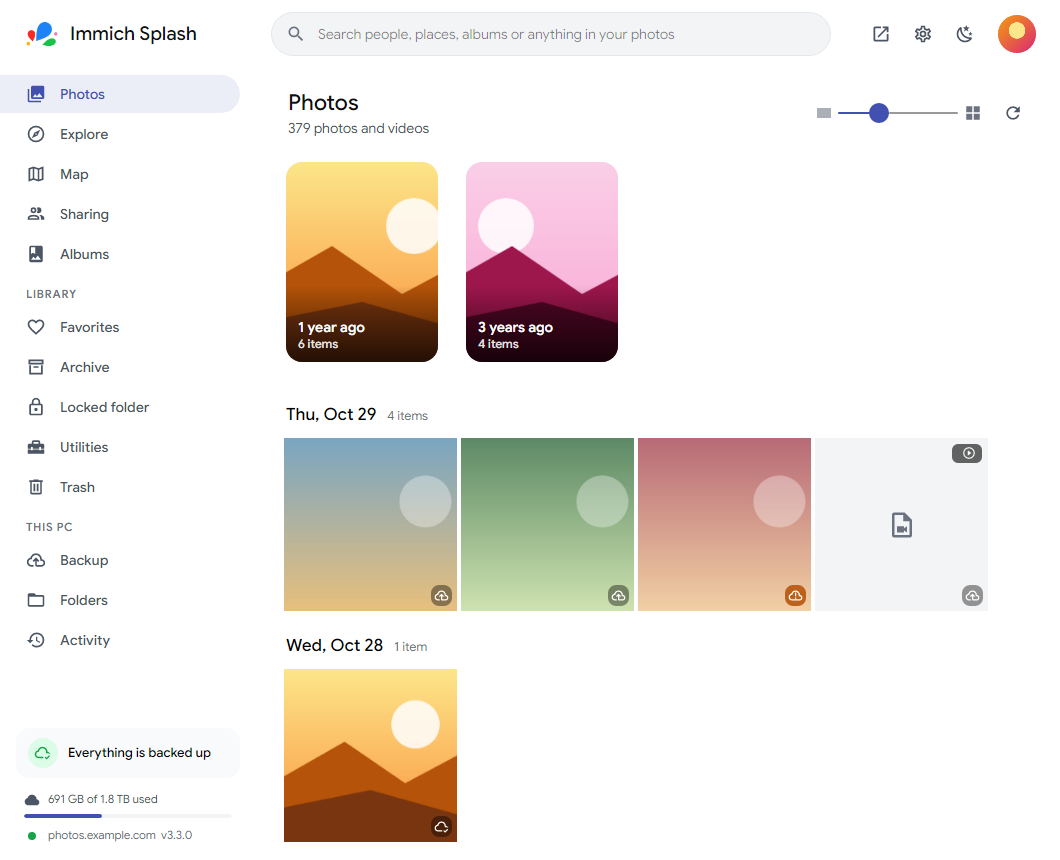
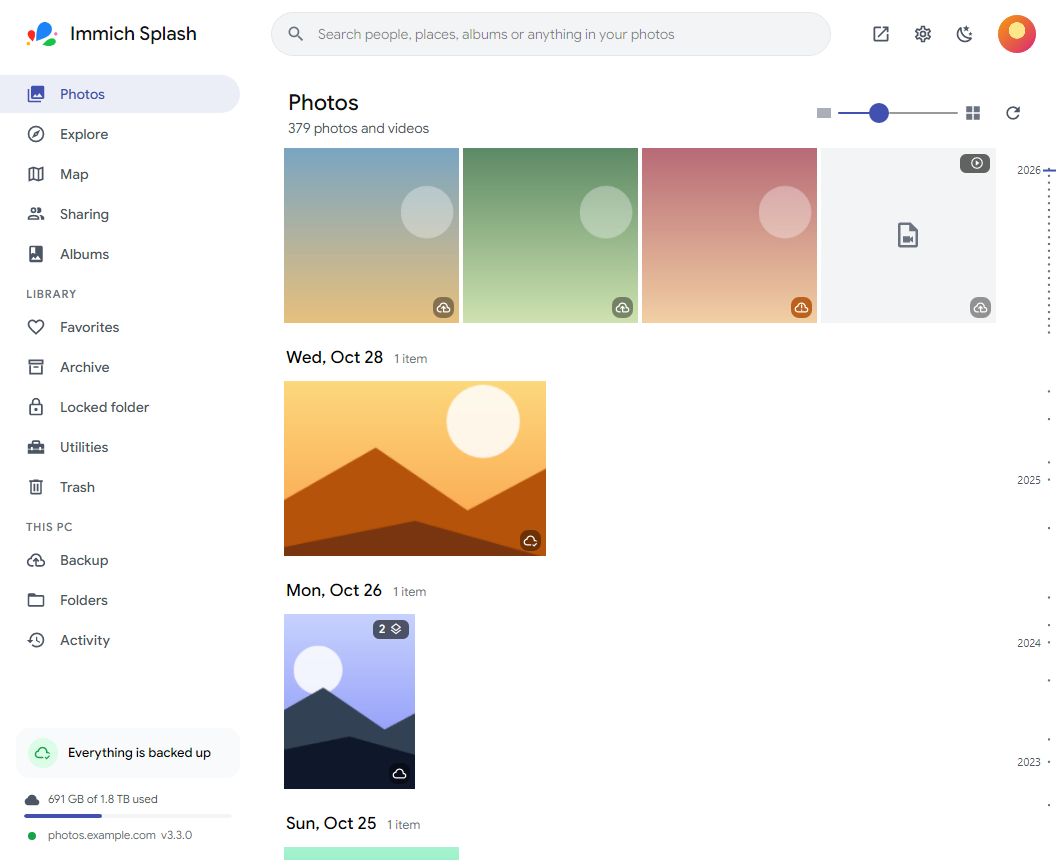
Desktop background: keeps going round, sharper pictures, choose the order; README
- Small albums no longer stop with "no photos to use" once every photo was
  shown lately: it starts over with the one shown longest ago (never the
  one on screen, unless it's the only photo).
- Sharper backgrounds: the full-size image, else the original file (when
  it's a format we can open), else the preview; saved at quality 95. The
  log says which one was used.
- Order: random, oldest first or newest first; in order it carries on
  where it left off (also after a restart) and starts again at the end.
- README: the new features (albums, editor, people, sharing, PIN) and
  re-rendered screenshots of the photos grid, viewer and Explore.

diff --git a/src/ImmichSplash.App/Services/WallpaperService.cs b/src/ImmichSplash.App/Services/WallpaperService.cs
@@ -65,7 +65,9 @@ public sealed class WallpaperService : IDisposable
                 WallpaperSource.Library => TimelineFilter.All,
                 _ => new TimelineFilter(Favorites: true),
             };
-            var asset = await PickAsync(client, filter);
+            var asset = settings.WallpaperOrder == WallpaperOrder.Random
+                ? await PickAsync(client, filter)
+                : await PickNextAsync(client, filter, settings);
             if (asset is null)
             {
                 Error = settings.WallpaperSource switch
@@ -77,25 +79,14 @@ public sealed class WallpaperService : IDisposable
                 return;
             }
 
-            byte[] data;
-            try
-            {
-                // Data saving: the smaller preview on a metered connection.
-                var size = AppServices.Network.IsMetered ? AssetImageSize.Preview : AssetImageSize.Fullsize;
-                data = await client.GetAssetImageAsync(asset.Id, size, CancellationToken.None);
-            }
-            catch (ImmichApiException)
-            {
-                data = await client.GetAssetImageAsync(asset.Id, AssetImageSize.Preview, CancellationToken.None);
-            }
-
             var folder = Directory.CreateDirectory(Path.Combine(AppPaths.DataDir, "wallpaper")).FullName;
             // Alternate file names: Windows caches a background by path and may not notice a changed file.
             var path = Path.Combine(folder, $"background-{_counter++ % 2}.jpg");
+            var bitmap = await LoadSharpestAsync(client, asset);
             await Task.Run(() =>
             {
-                using var bitmap = Images.DecodeUpright(data, MaxSize);
-                File.WriteAllBytes(path, Images.ToJpeg(bitmap, 92));
+                using (bitmap)
+                    File.WriteAllBytes(path, Images.ToJpeg(bitmap, 95));
                 DesktopWallpaper.Set(path);
             });
             Remember(asset.Id);
@@ -113,6 +104,93 @@ public sealed class WallpaperService : IDisposable
             _gate.Release();
             Changed?.Invoke();
         }
+    }
+
+    /// <summary>
+    /// The photo as sharp as the server can give it: the full-size image (only there when the server makes them), else
+    /// the original file (if it's a format we can open; not HEIC or RAW), else the ~1440 px preview. On a metered
+    /// connection, just the preview (data saving).
+    /// </summary>
+    static async Task<SkiaSharp.SKBitmap> LoadSharpestAsync(ImmichClient client, TimelineAsset asset)
+    {
+        var tries = new List<(string Name, Func<Task<byte[]>> Fetch)>();
+        if (!AppServices.Network.IsMetered)
+        {
+            tries.Add(("full size", () => client.GetAssetImageAsync(asset.Id, AssetImageSize.Fullsize, CancellationToken.None)));
+            tries.Add(("original", async () =>
+            {
+                using var stream = new MemoryStream();
+                await client.DownloadOriginalAsync(asset.Id, stream, CancellationToken.None);
+                return stream.ToArray();
+            }));
+        }
+        tries.Add(("preview", () => client.GetAssetImageAsync(asset.Id, AssetImageSize.Preview, CancellationToken.None)));
+
+        Exception? last = null;
+        foreach (var (name, fetch) in tries)
+        {
+            try
+            {
+                var data = await fetch();
+                var bitmap = await Task.Run(() => Images.DecodeUpright(data, MaxSize));
+                // The full-size image or the original may still be small (an old photo): fine, it's the best there is.
+                Log.Info($"Desktop background from the {name} image ({bitmap.Width}x{bitmap.Height})");
+                return bitmap;
+            }
+            catch (Exception ex) when (ex is ImmichApiException or InvalidDataException)
+            {
+                last = ex; // not made by this server, or a format we can't open: try the next
+            }
+        }
+        throw last ?? new InvalidDataException("No picture");
+    }
+
+    /// <summary>
+    /// In order (oldest or newest first): the photo after the one shown last, and back to the start after the
+    /// last one. The place is remembered in the settings, per source.
+    /// </summary>
+    static async Task<TimelineAsset?> PickNextAsync(ImmichClient client, TimelineFilter filter, AppSettings settings)
+    {
+        var oldestFirst = settings.WallpaperOrder == WallpaperOrder.OldestFirst;
+        var source = $"{settings.WallpaperSource}:{settings.WallpaperAlbumId}:{settings.WallpaperOrder}";
+        // The timeline comes newest first.
+        var buckets = (await client.GetTimeBucketsAsync(filter, CancellationToken.None)).Where(b => b.Count > 0).ToList();
+        if (oldestFirst)
+            buckets.Reverse();
+        if (buckets.Count == 0)
+            return null;
+
+        async Task<List<TimelineAsset>> PhotosIn(TimeBucket bucket)
+        {
+            var photos = (await client.GetTimeBucketAsync(bucket.Key, filter, CancellationToken.None)).Where(a => a.IsImage).ToList();
+            if (oldestFirst)
+                photos.Reverse();
+            return photos;
+        }
+
+        // Where it got to: the month and the photo shown last (if it's still there).
+        var parts = settings.WallpaperPosition?.Split('|');
+        var start = 0;
+        string? lastId = null;
+        if (parts is { Length: 3 } && parts[0] == source && buckets.FindIndex(b => b.Key == parts[1]) is >= 0 and var index)
+            (start, lastId) = (index, parts[2]);
+
+        // Go round once at most: the rest of that month, the months after it, then from the start again.
+        for (var step = 0; step <= buckets.Count; step++)
+        {
+            var bucket = buckets[(start + step) % buckets.Count];
+            var photos = await PhotosIn(bucket);
+            var from = 0;
+            if (step == 0 && lastId is not null)
+                from = photos.FindIndex(a => a.Id == lastId) + 1; // 0 when it's gone: the month from its start
+            if (from < photos.Count)
+            {
+                var next = photos[from];
+                AppServices.Settings.Update(s => s.WallpaperPosition = $"{source}|{bucket.Key}|{next.Id}");
+                return next;
+            }
+        }
+        return null;
     }
 
     /// <summary>A random photo, landscape if possible, not one used recently.</summary>
@@ -138,7 +216,34 @@ public sealed class WallpaperService : IDisposable
                 return landscape[_random.Next(landscape.Count)];
             fallback ??= photos[_random.Next(photos.Count)];
         }
-        return fallback;
+        return fallback ?? await PickLeastRecentAsync(client, filter, buckets);
+    }
+
+    /// <summary>
+    /// Every photo picked was shown lately (a small album, or the end of a round): go through the photos and take one
+    /// not shown lately, or else the one shown longest ago, so the frame keeps going round instead of stopping.
+    /// The one on screen now only comes again if it's the only photo.
+    /// </summary>
+    async Task<TimelineAsset?> PickLeastRecentAsync(ImmichClient client, TimelineFilter filter, List<TimeBucket> buckets)
+    {
+        var recent = _recent.ToList(); // oldest first
+        var current = recent.Count > 0 ? recent[^1] : null;
+        TimelineAsset? best = null, only = null;
+        var bestAge = int.MaxValue;
+        // A big library always has unshown photos within a few months; a small album is read whole.
+        foreach (var bucket in buckets.OrderBy(_ => _random.Next()).Take(24))
+        {
+            foreach (var asset in (await client.GetTimeBucketAsync(bucket.Key, filter, CancellationToken.None)).Where(a => a.IsImage))
+            {
+                only ??= asset;
+                var age = recent.IndexOf(asset.Id);
+                if (age < 0)
+                    return asset; // not shown lately after all
+                if (asset.Id != current && age < bestAge)
+                    (best, bestAge) = (asset, age);
+            }
+        }
+        return best ?? only;
     }
 
     void Remember(string id)

diff --git a/src/ImmichSplash.App/ViewModels/SettingsViewModel.cs b/src/ImmichSplash.App/ViewModels/SettingsViewModel.cs
@@ -63,6 +63,7 @@ public sealed partial class SettingsViewModel : ViewModelBase, IDisposable
         WallpaperEnabled = s.WallpaperEnabled;
         SelectedWallpaperSource = WallpaperSources.FirstOrDefault(o => o.Value == s.WallpaperSource) ?? WallpaperSources[0];
         SelectedWallpaperInterval = WallpaperIntervals.FirstOrDefault(o => o.Value == s.WallpaperIntervalMinutes) ?? WallpaperIntervals[2];
+        SelectedWallpaperOrder = WallpaperOrders.FirstOrDefault(o => o.Value == s.WallpaperOrder) ?? WallpaperOrders[0];
         _lockMode = s.AppLock;
         _loading = false;
 
@@ -296,6 +297,27 @@ public sealed partial class SettingsViewModel : ViewModelBase, IDisposable
         new(Tr.T("Every 6 hours"), 360),
         new(Tr.T("Once a day"), 1440),
     ];
+
+    public IReadOnlyList<Option<WallpaperOrder>> WallpaperOrders { get; } =
+    [
+        new(Tr.T("Random"), WallpaperOrder.Random),
+        new(Tr.T("Oldest first"), WallpaperOrder.OldestFirst),
+        new(Tr.T("Newest first"), WallpaperOrder.NewestFirst),
+    ];
+
+    [ObservableProperty]
+    [NotifyPropertyChangedFor(nameof(WallpaperOrderHint))]
+    public partial Option<WallpaperOrder> SelectedWallpaperOrder { get; set; }
+
+    public string WallpaperOrderHint => SelectedWallpaperOrder?.Value == WallpaperOrder.Random
+        ? Tr.T("Landscape photos are picked first, so they fill your screen.")
+        : Tr.T("One after another by date, starting again after the last one.");
+
+    partial void OnSelectedWallpaperOrderChanged(Option<WallpaperOrder> value)
+    {
+        if (_loading || value is null) return;
+        AppServices.Settings.Update(s => s.WallpaperOrder = value.Value);
+    }
 
     [ObservableProperty]
     public partial Option<int> SelectedWallpaperInterval { get; set; }

diff --git a/src/ImmichSplash.Core/Settings/AppSettings.cs b/src/ImmichSplash.Core/Settings/AppSettings.cs
@@ -37,6 +37,14 @@ public enum MeteredBackup
     Pause,
 }
 
+/// <summary>In what order desktop backgrounds are shown.</summary>
+public enum WallpaperOrder
+{
+    Random,
+    OldestFirst,
+    NewestFirst,
+}
+
 /// <summary>Where desktop backgrounds come from.</summary>
 public enum WallpaperSource
 {
@@ -223,6 +231,10 @@ public sealed class AppSettings
     public string? WallpaperAlbumId { get; set; }
     public string? WallpaperAlbumName { get; set; }
     public int WallpaperIntervalMinutes { get; set; } = 60;
+    public WallpaperOrder WallpaperOrder { get; set; } = WallpaperOrder.Random;
+
+    /// <summary>In order: where it got to ("source|month|photo id"), so it carries on after a restart.</summary>
+    public string? WallpaperPosition { get; set; }
 
     public bool IsConfigured => !string.IsNullOrEmpty(ServerUrl) && !string.IsNullOrEmpty(UserId);
 }

diff --git a/README.md b/README.md
@@ -5,7 +5,7 @@
 <h1 align="center">Immich Splash</h1>
 
 <p align="center">
-  Automatic photo &amp; video backup from your Windows PC to your own <a href="https://immich.app">Immich</a> server.<br/>
+  Automatic photo &amp; video backup from your PC to your own <a href="https://immich.app">Immich</a> server, and your whole library on the desktop.<br/>
   Lives in the system tray. Looks and feels like Immich. For Windows and Linux.
 </p>
 
@@ -17,11 +17,16 @@
 
 - **Feels at home next to Immich.** Google Sans, Immich's colors and a familiar layout (top bar, sidebar, storage meter and server status), with its own logo so it's never mistaken for an official app.
 - **Light, dark or follow Windows.** One click on the sun/moon in the top bar, or choose in Settings.
-- **Your library, like the web and mobile apps.** A sidebar with Photos (with a date rail to jump through the years), Explore (people and places), Map, Sharing (shared albums, your links, partners) and Albums, plus a Library group: Favorites, Archive, Locked Folder (unlocked with your PIN) and Trash. Search from the top bar, with suggestions and recent searches. A sharp full-screen viewer with zoom, favorite, copy, download, add to album, trash and photo info, and videos play right in the app.
+- **Your library, like the web and mobile apps.** A sidebar with Photos (with a date rail to jump through the years), Explore (people and places), Map, Sharing (shared albums, your links, partners) and Albums, plus a Library group: Favorites, Archive, Locked Folder (unlocked with your PIN) and Trash. Search from the top bar, with suggestions and recent searches. Photos keep their shape in the grid, and right-click menus are everywhere. Drop files on the window (or on an open album) to upload them.
+- **A full viewer.** Zoom, favorite, copy, download, add to album, slideshow, archive, move to the locked folder, view similar photos, and a detailed info panel. Videos play right in the app with volume, a draggable progress bar and previews as you point along it.
+- **Edit photos.** Turn, flip and crop (free or with a fixed shape) using Immich's own editing, applied to the full-quality original on your server; take the edits off again any time.
+- **Albums.** Filter (all, yours, shared with you), search, six ways to sort, group by year, cover or list view. Create and edit albums, and the three you used last are one click away in the sidebar. "Add to album" searches your albums or creates a new one from the same box.
+- **People.** Name the faces Immich found, merge someone found twice into one person, or discard a face.
 - **Offline map.** A built-in world map with country and state lines, photo thumbnails, a heat map and a side panel with the photos of the area you're looking at; online street detail is optional.
 - **Utilities.** Review duplicates, archive screenshots and screen recordings, find your largest files, and see which files on this PC aren't in Immich yet.
 - **Private photos, found on your PC.** An optional check suggests photos for the locked folder (nudity, payment cards, IDs, bank and tax papers, passwords, medical records). It runs entirely on your PC with on-device models (NudeNet for nudity, plus an optional thorough mode with CLIP that also understands drawings, art and game screenshots); your photos and results are never sent anywhere and nothing is moved without you.
-- **Share.** Select photos (or a whole album) and create a share link with an expiry date, copied straight to your clipboard.
+- **Share.** Select photos (or a whole album) and create a share link with an expiry date, copied straight to your clipboard. Share albums with people on your server as viewers or editors, and manage your links (copy, allow downloads, delete). Shared photos are marked in the grid and the viewer.
+- **Locked folder.** Open it with your PIN, or create a PIN right in the app; change or remove it in Settings.
 - **Desktop picture frame.** Your desktop background can rotate through photos from your favorites, an album or the whole library.
 - **Your profile picture.** Shown from Immich. Change it in Settings by picking a photo from your Immich library (or your PC), then move, zoom and rotate it in the circle, just like the web app.
 - **Every way to sign in.** Email & password, **SSO / OAuth** (Authentik, Keycloak, Google, …) through your browser, or an API key.
